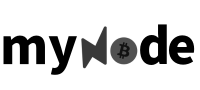
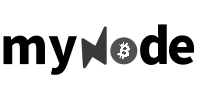
Add myNode Image

Changed region(s): [[0.57, 0.4667, 0.66, 0.6667]]

diff --git a/client/src/pages/Index.vue b/client/src/pages/Index.vue
@@ -200,6 +200,22 @@
                 </a>
               </div>
             </div>
+            <div class="row">
+              <div class="col">
+                <a href="https://mynodebtc.com/">
+                  <q-img
+                    contain
+                    :src="
+                      $q.dark.isActive
+                        ? '/static/images/mynode.png'
+                        : '/static/images/mynodel.png'
+                    "
+                  ></q-img>
+                </a>
+              </div>
+              <div class="col q-pl-md">
+              </div>
+            </div>
           </div>
         </div>
       </div>
